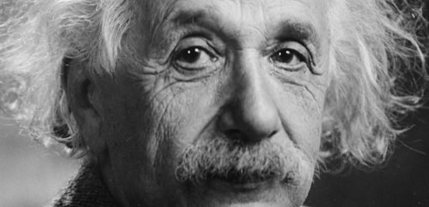
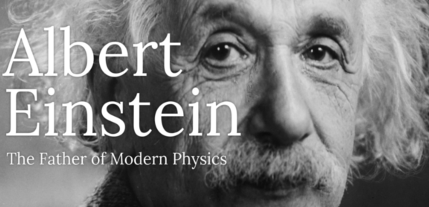
Updated tribute page link and picture to v2

diff --git a/index.html b/index.html
@@ -273,12 +273,12 @@
 
                         <div class="row">
                           <div class="col-xs-4">
-                            <a href="http://codepen.io/Autophagy/full/PZLPzX/" target="_blank">
+                            <a href="http://codepen.io/Autophagy/full/ZWEdmo/" target="_blank">
                               <img class="img-responsive" src="images/projects/FCC/tribute-page.png" alt="Build a Tribute Page">
                             </a>
                           </div>
                           <div class="col-xs-8">
-                            <a href="http://codepen.io/Autophagy/full/PZLPzX/" target="_blank">Build a Tribute Page</a> - A tribute page to Albert Einstein, the father of modern physics.
+                            <a href="http://codepen.io/Autophagy/full/ZWEdmo/" target="_blank">Build a Tribute Page</a> - A tribute page to Albert Einstein, the father of modern physics.
                           </div>
                         </div>
                         <span class="link back">Back</span>
